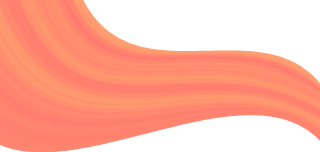
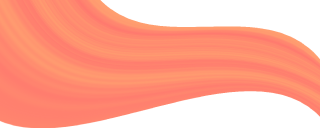
profile page styled

diff --git a/src/containers/Profile.jsx b/src/containers/Profile.jsx
@@ -3,6 +3,8 @@ import withAuthentication from "../components/auth/WithAuthentication";
 import { observer, inject } from "mobx-react";
 import { useHistory } from "react-router-dom";
 
+import styles from "./Profile.module.css";
+
 const Profile = ({uiStore, databaseStore}) => {
   let history = useHistory();
   const [status, setStatus] = useState(false);
@@ -144,44 +146,66 @@ const Profile = ({uiStore, databaseStore}) => {
       if(status){
         return (
           <>
-            <button onClick={() => handleClickEdit()}>Edit</button>
-            <h1>Profile</h1>
-            <h2>{username}</h2>
-            <p>{city} - {regio}</p>
-            <img src={photo} alt="profielfoto" width="100" height="100"/>
-            <div>
-              <p>{age}</p>
-              <p>Leeftijd</p>
+            <div className={styles.containerHeader}>
+              {/* <h1>Profile</h1> */}
+              <div className={styles.header}>
+                <div>
+                  <h2 className="accent">{username}</h2>
+                  <p className="small">{city} - {regio === "VL" ? "Vlaanderen" : regio === "WL" ? "Wallonië" : regio === "FR" ? "Frankrijk" : null}</p>
+                </div>
+                <button onClick={() => handleClickEdit()}>
+                  <svg width="24" height="24" viewBox="0 0 24 24" fill="none" xmlns="http://www.w3.org/2000/svg">
+                    <rect width="24" height="24" fill="white" />
+                    <path fillRule="evenodd" clipRule="evenodd" d="M3 18.25V22H6.75L17.81 10.94L14.06 7.19L3 18.25ZM20.71 8.04C20.8972 7.85316 21.0024 7.59951 21.0024 7.335C21.0024 7.07049 20.8972 6.81685 20.71 6.63L18.37 4.29C18.1832 4.10277 17.9295 3.99756 17.665 3.99756C17.4005 3.99756 17.1468 4.10277 16.96 4.29L15.13 6.12L18.88 9.87L20.71 8.04Z" fill="url(#paint0_linear)" />
+                    <defs>
+                      <linearGradient id="paint0_linear" x1="3" y1="3.99756" x2="21.0024" y2="22" gradientUnits="userSpaceOnUse">
+                        <stop stopColor="#FFC371" />
+                        <stop offset="1" stopColor="#FF5F6D" />
+                      </linearGradient>
+                    </defs>
+                  </svg>
+                </button>
+              </div>
+              <img src={photo} alt="profielfoto" width="110" height="110" align="right"/>
             </div>
-            <div>
-              <p>{gender}</p>
-              <p>Geslacht</p>
-            </div>
-            <div>
-              <p>{language}</p>
-              <p>Taal</p>
-            </div>
-            <div>
-              <h3>Over</h3>
-              <p>{bio}</p>
-            </div>
-            <div>
-              <h3>Gedane uitdagingen</h3>
-              <ul>
-                {challenges ? (
-                  Object.keys(challenges).map(key => {
-                    return( 
-                      <li key={key}>{challenges[key].naam}</li>
-                    )
-                  })
+            <div className={styles.container}>
+              <div className="flexRow">
+                <div className={styles.info}>
+                  <p className="accent">{age}</p>
+                  <p className="small">Leeftijd</p>
+                </div>
+                <div className={styles.info}>
+                  <p className="accent">{gender}</p>
+                  <p className="small">Geslacht</p>
+                </div>
+                <div className={styles.info}>
+                  <p className="accent">{language}</p>
+                  <p className="small">Taal</p>
+                </div>
+              </div>
+              <div className="shortLine"></div>
+              <div>
+                <h3 className={styles.titles}>Over</h3>
+                <p className="small">{bio}</p>
+              </div>
+              <div>
+                <h3 className={styles.titles}>Gedane uitdagingen</h3>
+                <ul>
+                  {challenges ? (
+                    Object.keys(challenges).map(key => {
+                      return (
+                        <li key={key} className={styles.challengeButton}><span className={styles.challengeButtonSpan}>{challenges[key].naam}</span></li>
+                      )
+                    })
 
-                ) : (
-                    <p>Loading...</p>
-                  )
-                }
-              </ul>
+                  ) : (
+                      <p>Loading...</p>
+                    )
+                  }
+                </ul>
+              </div>
+              <button onClick={() => handleLogout()}>Afmelden</button>
             </div>
-            <button onClick={() => handleLogout()}>Afmelden</button>
           </>
         );
       } else {

diff --git a/src/containers/Profile.module.css b/src/containers/Profile.module.css
@@ -1,0 +1,70 @@
+.containerHeader {
+  background-image: url('./../assets/img/profileHeaderBg.png');
+  background-repeat: no-repeat;
+  height: 14.7rem;
+}
+
+.containerHeader > img {
+  box-shadow: 0 0 0.4rem rgba(0, 0, 0, 0.25);
+  border-radius: 5.5rem;
+  margin-top: -4rem;
+  margin-right: 4rem;
+}
+
+.header {
+  composes: headerRect from '../styles/ui.module.css';
+  composes: flexRow from '../styles/ui.module.css';
+  justify-content: space-between;
+}
+
+.header > button {
+  padding: 0;
+  height: 2.5rem;
+}
+
+.container {
+  padding: 1.6rem;
+}
+
+.info {
+  margin-right: 3.7rem;
+}
+
+.challengeButton {
+  background-image: linear-gradient(
+    to right bottom,
+    #ffc371,
+    #ffac66,
+    #ff9362,
+    #ff7a65,
+    #ff5f6d
+  );
+  border: solid 0.1rem transparent;
+  border-radius: 1rem;
+  box-sizing: border-box;
+
+  color: var(--offBlack-color);
+  width: 28.8rem;
+  /* margin: 0 auto; */
+  margin-bottom: 0.8rem;
+
+  padding: 0.1rem;
+}
+
+.challengeButtonSpan {
+  align-items: center;
+  background: #fff;
+  border-radius: 0.8rem;
+  display: flex;
+  justify-content: left;
+  height: 100%;
+  width: 100%;
+  padding: 0.8rem 1.6rem;
+  text-align: left;
+  composes: small from '../styles/typo.module.css';
+}
+
+.titles {
+  composes: header-1 from '../styles/typo.module.css';
+  margin: 1.6rem 0rem 0.8rem 0rem;
+}

diff --git a/src/styles/ui.module.css b/src/styles/ui.module.css
@@ -119,8 +119,9 @@
 /* Navigation -------------------------------------------------------------------------------------------------------------------------------------------- */
 .headerRect {
   background-color: white;
-  border-radius: 0rem 0rem 0.5rem 0.5rem;
+  border-radius: 0rem 0rem 2rem 2rem;
   box-shadow: 0 0 0.4rem rgba(0, 0, 0, 0.25);
+  padding: 1.6rem;
 }
 
 .nav {

diff --git a/src/components/Tabbar.jsx b/src/components/Tabbar.jsx
@@ -1,5 +1,5 @@
 import React from "react";
-import { Link, NavLink, useHistory } from "react-router-dom";
+import { Link, useHistory } from "react-router-dom";
 import styles from "./Tabbar.module.css";
 
 import NavSVG from "./NavSVG";

diff --git a/src/styles/typo.module.css b/src/styles/typo.module.css
@@ -2,7 +2,6 @@ body, .button-2, .noButton, .button-1, .button-4 {
     font-family: Muli, sans serif;
     font-size: 1.6rem;
     line-height: 2.4rem;
-
     color: var(--offBlack-color);
 }
 
